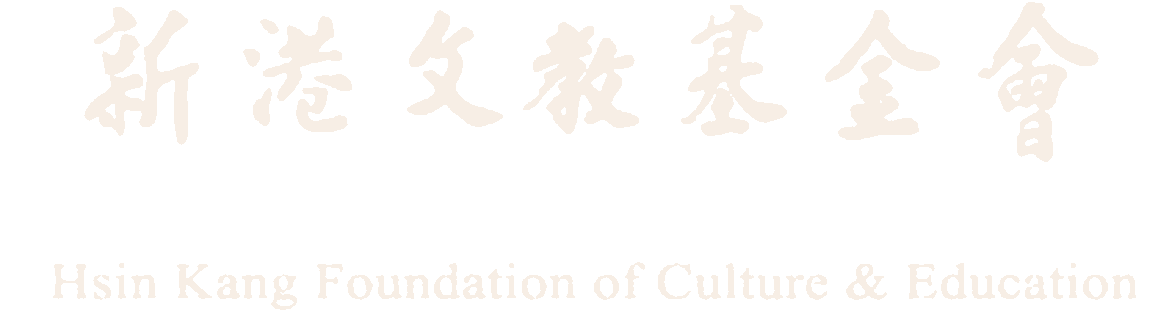
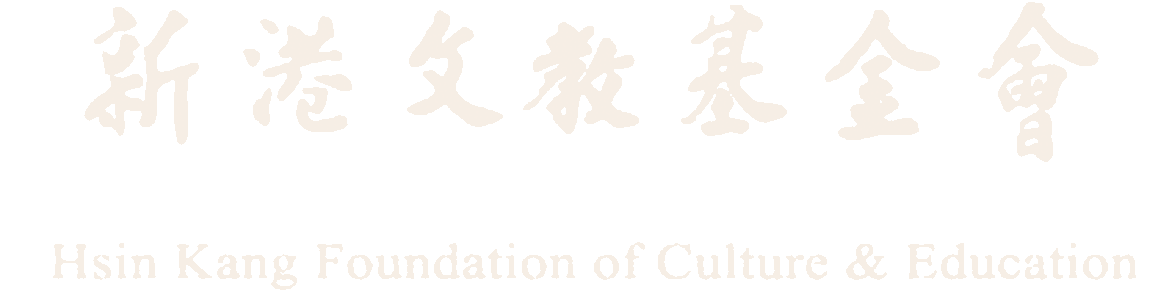
調整頁尾資訊版面與網站聲明

diff --git a/index.html b/index.html
@@ -1547,20 +1547,42 @@
       .visualmeta,.season-track .visualmeta,.orbit,.season-track .orbit{font-size:16px}
     }
 
-    /* 頁尾識別更新：透明暖米白標誌與輕量社群連結。 */
-    .footer-brand-column .footer-social{
+    /* 頁尾資訊最終調整：統一欄寬、置中社群連結，並縮短品牌中英文間距。 */
+    .footer-main{
+      max-width:1380px;
+      grid-template-columns:minmax(300px,1.05fr) minmax(180px,.65fr) minmax(430px,1.3fr);
+      gap:clamp(44px,5vw,72px);
+    }
+    .footer-main>div{min-width:0}
+    .footer-brand-column{
+      width:100%;
       max-width:410px;
+      justify-self:center;
+    }
+    .footer-related-group{
+      width:100%;
+      max-width:410px;
+    }
+    .footer-cafe-brand{
+      width:min(100%,340px);
+      margin:0 auto;
+    }
+    .footer-brand-column .footer-social{
+      width:100%;
+      max-width:none;
       margin:20px 0 0;
       padding-top:16px;
       border-top:1px solid rgba(247,238,229,.2);
     }
     .footer-social-links{
+      width:100%;
+      max-width:none;
       display:flex;
       grid-template-columns:none;
+      justify-content:center;
       align-items:center;
       flex-wrap:wrap;
-      gap:14px 24px;
-      max-width:none;
+      gap:14px 28px;
     }
     .footer-social-link{
       width:auto;
@@ -1578,14 +1600,7 @@
       box-shadow:none;
       transition:color .18s ease,opacity .18s ease;
     }
-    .footer-social-link::after{
-      content:"↗";
-      margin-left:1px;
-      color:#d8c8b2;
-      font-size:13px;
-      line-height:1;
-      opacity:.72;
-    }
+    .footer-social-link::after{content:none}
     .footer-social-link:hover{
       transform:none;
       background:transparent;
@@ -1607,11 +1622,13 @@
       letter-spacing:.025em;
     }
     .footer-foundation-group{
-      margin-top:32px;
-      padding-top:27px;
+      margin-top:22px;
+      padding-top:20px;
+      border-top:1px solid rgba(247,238,229,.2);
     }
     .footer-foundation-brand{
       width:min(100%,390px);
+      margin:0 auto;
       opacity:1;
     }
     .footer-foundation-brand img{
@@ -1620,11 +1637,50 @@
       height:auto;
       filter:drop-shadow(0 4px 12px rgba(12,32,23,.18));
     }
+    .footer-link-column{
+      width:100%;
+      max-width:240px;
+    }
+    .footer-source-column{
+      width:100%;
+      max-width:560px;
+    }
+    .footer-source-note{max-width:540px}
+    @media(max-width:980px){
+      .footer-main{
+        grid-template-columns:minmax(0,1fr) minmax(220px,.72fr);
+        gap:40px 52px;
+      }
+      .footer-brand-column{justify-self:start}
+      .footer-link-column{max-width:none}
+      .footer-source-column{
+        grid-column:1/-1;
+        max-width:none;
+      }
+    }
     @media(max-width:700px){
-      .footer-brand-column .footer-social{max-width:100%}
-      .footer-social-links{gap:12px 22px}
+      .footer-main{
+        grid-template-columns:1fr;
+        gap:0;
+        padding:46px 24px 34px;
+      }
+      .footer-brand-column{
+        max-width:none;
+        justify-self:stretch;
+      }
+      .footer-related-group{max-width:none}
+      .footer-cafe-brand{width:min(100%,340px)}
+      .footer-social-links{gap:12px 26px}
       .footer-social-link{width:auto}
-      .footer-foundation-brand{width:min(100%,350px)}
+      .footer-foundation-brand{width:min(100%,360px)}
+      .footer-link-column,
+      .footer-source-column{
+        max-width:none;
+        padding-top:30px;
+        margin-top:30px;
+        border-top:1px solid rgba(247,238,229,.2);
+      }
+      .footer-source-column{grid-column:auto}
     }
 </style>
 </head>
@@ -1738,7 +1794,7 @@
         </section>
         </div>
         <div class="footer-related-group footer-foundation-group">
-          <a class="footer-related-brand footer-foundation-brand" href="https://www.hkfce.org.tw/" target="_blank" rel="noopener noreferrer" aria-label="前往新港文教基金會官方網站，另開新視窗"><img src="assets/hkfce-wordmark-footer.png?v=20260829-1" width="1156" height="312" alt="新港文教基金會"></a>
+          <a class="footer-related-brand footer-foundation-brand" href="https://www.hkfce.org.tw/" target="_blank" rel="noopener noreferrer" aria-label="前往新港文教基金會官方網站，另開新視窗"><img src="assets/hkfce-wordmark-footer.png?v=20260829-2" width="1156" height="292" alt="新港文教基金會"></a>
         </div>
       </div>
       <div class="footer-link-column">
@@ -1748,7 +1804,7 @@
       <div class="footer-source-column">
         <h2 class="footer-title">資料來源與編製資訊</h2>
         <ul class="footer-sources"><li><a href="https://www.hpa.gov.tw/Pages/EBook.aspx?nodeid=3821" target="_blank" rel="noopener">國民健康署｜我的餐盤手冊 ↗</a></li><li><a href="https://www.hpa.gov.tw/Pages/List.aspx?nodeid=4131" target="_blank" rel="noopener">國民健康署｜質地調整飲食 ↗</a></li><li><a href="https://ihealth.vghtpe.gov.tw/media/3178" target="_blank" rel="noopener">臺北榮總｜吞嚥困難照護 ↗</a></li><li><a href="https://www.mohw.gov.tw/fp-16-28656-1.html" target="_blank" rel="noopener">衛生福利部｜老人營養餐食手冊 ↗</a></li><li><a href="https://www.hpa.gov.tw/Pages/Detail.aspx?nodeid=4878&amp;pid=19338" target="_blank" rel="noopener">國民健康署｜積極管理三高 ↗</a></li><li><a href="https://www.fda.gov.tw/tc/newsContent.aspx?cid=5049&amp;id=28116" target="_blank" rel="noopener">食品藥物管理署｜低鈉鹽提醒 ↗</a></li><li><a href="https://health.ntuh.gov.tw/health/new/6305.html" target="_blank" rel="noopener">臺大醫院｜高血脂飲食保健 ↗</a></li><li><a href="https://fae.moa.gov.tw/map/county_agri.php" target="_blank" rel="noopener">農業部｜臺灣農產地圖・當令月份 ↗</a></li></ul>
-        <p class="footer-source-note">份量與營養內容為一般衛教及餐點搭配參考，實際飲食仍應依個人健康狀況與醫師或營養師建議調整。</p>
+        <p class="footer-source-note">本網站內容僅供健康飲食與日常照護參考，實際需求請依個人狀況諮詢相關專業人員。</p>
       </div>
     </div>
 
